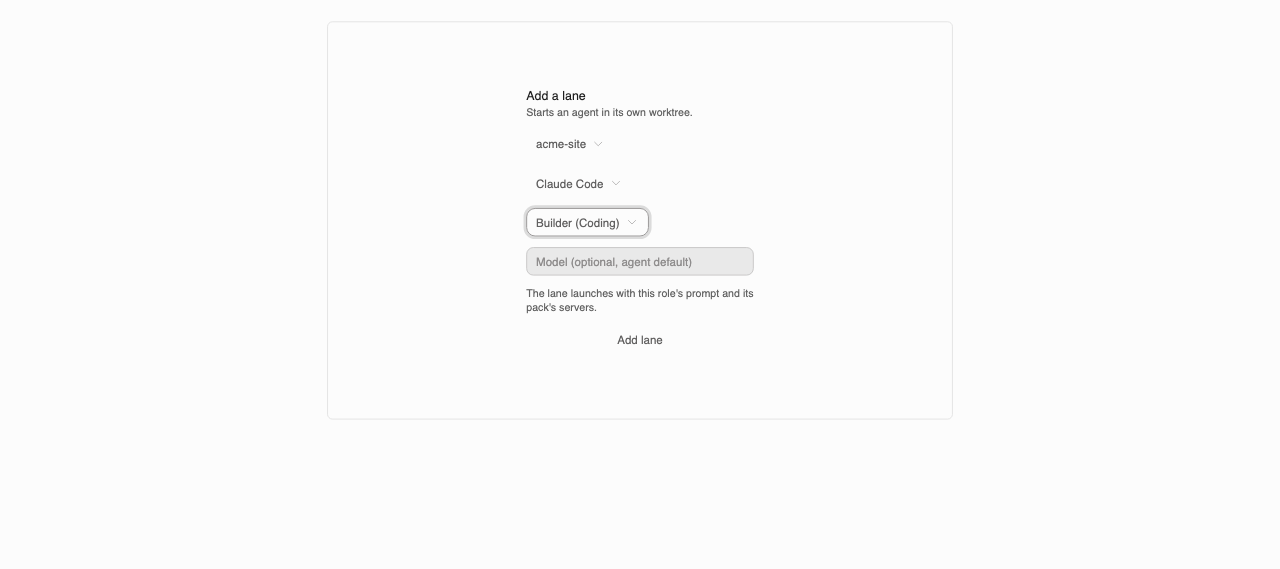
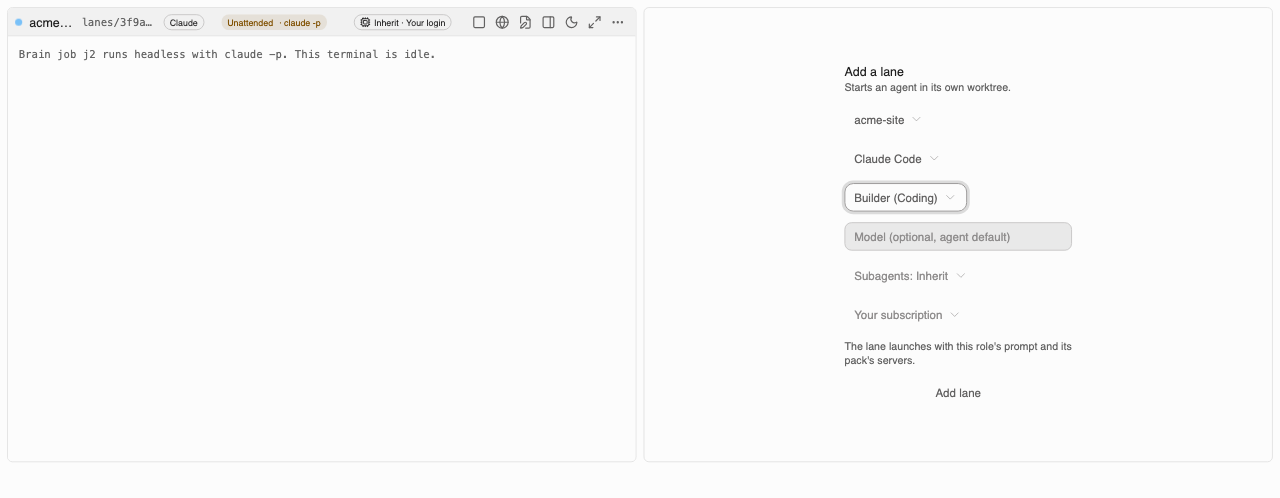
fix(screenshots): frame the Brain drawer, add-lane and Models shots correctly (#18)
* fix(screenshots): frame the Brain drawer, add-lane and Models shots correctly

Five README/docs screenshots were badly cropped: the Brain drawer and
add-lane 1440 shots wasted most of the frame on blank canvas around a
small panel, and the three Models shots picked a fixed viewport height
that didn't match the panel's actual content, leaving huge blank tails
(routing-models-390 in particular became too small to read once
scaled).

Fix at the generators, not the PNGs:
- daily-use-screenshots.test.tsx: the Brain drawer shot now renders the
  real lane grid as its backdrop instead of an empty flex-1 spacer.
  The add-lane-role 1440 shot now renders inside a real lane-grid cell
  (matching how AddLaneForm actually sits in the app) instead of a
  small card centered on an oversized canvas; LaneShell gained an
  optional height prop so this and the existing lanes-run-mode shots
  can share it without duplicating markup.
- routing-screenshots.test.tsx: picked viewport heights that match the
  Models panel's real content (measured empirically) for the 1440,
  390, and profiles-off shots, instead of guesses that left the
  content in a small fraction of the frame.

The dark 390, add-lane dropdown-open 390, and lane-header shots were
already well framed and are unchanged in substance; their PNGs were
only regenerated because a full suite run rewrites every screenshot
in its file.

* fix(screenshots): rebuild the tailwind CSS the screenshots test suites use
[…]

diff --git a/apps/emdash-desktop/src/renderer/tests/browser/daily-use-screenshots.test.tsx b/apps/emdash-desktop/src/renderer/tests/browser/daily-use-screenshots.test.tsx
@@ -165,9 +165,19 @@ function lane(overrides: Partial<Lane>): Lane {
   };
 }
 
-function LaneShell({ lane: shown, text }: { lane: Lane; text: string }) {
+function LaneShell({
+  lane: shown,
+  text,
+  height = 'h-56',
+}: {
+  lane: Lane;
+  text: string;
+  height?: string;
+}) {
   return (
-    <div className="@container flex h-56 min-w-0 flex-col overflow-hidden rounded-md border border-border">
+    <div
+      className={`@container flex ${height} min-w-0 flex-col overflow-hidden rounded-md border border-border`}
+    >
       <LaneHeader
         lane={shown}
         status={shown.status}
@@ -199,6 +209,53 @@ function Lanes() {
           branch: 'lanes/8e21d0aa',
         })}
         text="› Ready for the next job."
+      />
+    </div>
+  );
+}
+
+// The real lane grid is a fixed 2x2 of slots (lanes-grid-layout.tsx), not a
+// responsive column count. Four lanes here, not two, is what the app actually
+// shows at this width; two would leave half the grid empty. At a real 2x2
+// cell's width the header has little room beside its badges and icons, so
+// (unlike the wider lanes-run-mode-1440 cells) these use short project/branch
+// names that actually fit instead of truncating to a couple of characters.
+function FourLanes() {
+  return (
+    <div className="grid h-full grid-cols-2 grid-rows-2 gap-2 p-2">
+      <LaneShell
+        lane={lane({ projectName: 'shop', branch: 'main' })}
+        text="› Building the pricing page."
+        height="h-full"
+      />
+      <LaneShell
+        lane={lane({
+          laneId: 'lane-b',
+          slot: 1,
+          provider: 'codex',
+          status: 'idle',
+          projectName: 'docs',
+          branch: 'main',
+        })}
+        text="› Ready for the next job."
+        height="h-full"
+      />
+      <LaneShell
+        lane={lane({ laneId: 'lane-c', slot: 2, projectName: 'api', branch: 'main' })}
+        text="› Running the payments migration."
+        height="h-full"
+      />
+      <LaneShell
+        lane={lane({
+          laneId: 'lane-d',
+          slot: 3,
+          provider: 'codex',
+          status: 'idle',
+          projectName: 'web',
+          branch: 'main',
+        })}
+        text="› Ready for the next job."
+        height="h-full"
       />
     </div>
   );
@@ -341,9 +398,32 @@ describe.skipIf(!import.meta.env.VITE_DAILY_SCREENSHOTS)('daily-use screenshots'
     </div>
   );
 
+  // The 1440 shot: a real lane grid cell (as it renders in the app), not a
+  // small card afloat on an oversized canvas.
+  const addLaneGrid = (
+    <div className="grid h-full grid-cols-1 content-start gap-2 p-2 md:grid-cols-2">
+      <LaneShell
+        lane={lane({ runMode: 'unattended' })}
+        text="Brain job j2 runs headless with claude -p. This terminal is idle."
+        height="h-[32rem]"
+      />
+      <div className="@container flex h-[32rem] min-w-0 flex-col overflow-hidden rounded-md border border-border">
+        <AddLaneFields
+          tabId="tab-1"
+          slot={2}
+          projects={[
+            { id: 'p1', name: 'acme-site', type: 'local' },
+            { id: 'p2', name: 'billing-api', type: 'local' },
+          ]}
+          installed={['claude', 'codex']}
+        />
+      </div>
+    </div>
+  );
+
   it('add lane with a role picked, light, 1440', async () => {
     listing = { packs: [CODING_PACK], errors: [] };
-    await show('emlight', 1440, 640, addLane);
+    await show('emlight', 1440, 560, addLaneGrid);
     await clickEl('[aria-label="Role"]');
     const builder = await vi.waitFor(() => {
       const found = [...document.querySelectorAll<HTMLElement>('[role="option"]')].find((option) =>
@@ -396,8 +476,10 @@ describe.skipIf(!import.meta.env.VITE_DAILY_SCREENSHOTS)('daily-use screenshots'
       1440,
       900,
       <div className="flex h-full">
-        <div className="flex-1" />
-        <div className="w-[30rem]">
+        <div className="flex-1">
+          <FourLanes />
+        </div>
+        <div className="w-[30rem] border-l border-border">
           <BrainDrawer
             projects={[{ projectId: 'p1', name: 'acme-site' }]}
             lanes={[

diff --git a/apps/emdash-desktop/src/renderer/tests/browser/routing-screenshots.test.tsx b/apps/emdash-desktop/src/renderer/tests/browser/routing-screenshots.test.tsx
@@ -317,12 +317,12 @@ describe.skipIf(!import.meta.env.VITE_ROUTING_SCREENSHOTS)('routing screenshots'
   }
 
   it('models, light, 1440', async () => {
-    await show('emlight', 1440, 1700, <Models listing={LISTING} />);
+    await show('emlight', 1440, 1300, <Models listing={LISTING} />);
     await page.screenshot({ path: `${SHOTS}/routing-models-1440.png` });
   });
 
   it('models, dark, 390', async () => {
-    await show('emdark', 390, 2900, <Models listing={LISTING} />);
+    await show('emdark', 390, 2000, <Models listing={LISTING} />);
     await page.screenshot({ path: `${SHOTS}/routing-models-390.png` });
   });
 
@@ -330,7 +330,7 @@ describe.skipIf(!import.meta.env.VITE_ROUTING_SCREENSHOTS)('routing screenshots'
     await show(
       'emlight',
       1440,
-      900,
+      300,
       <Models listing={{ enabled: false, profiles: [], vendors: [] }} />
     );
     await page.screenshot({ path: `${SHOTS}/routing-models-disabled-1440.png` });
